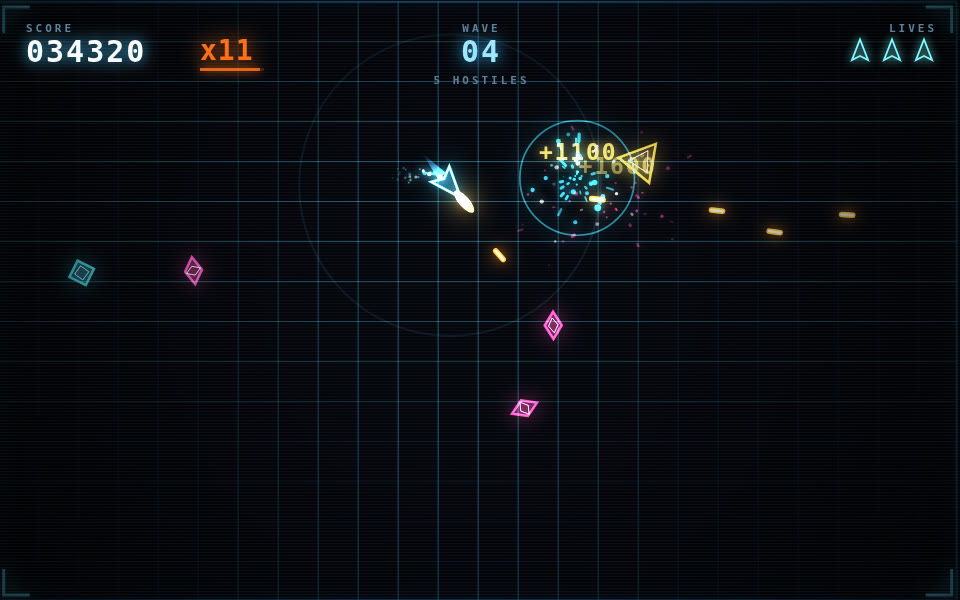
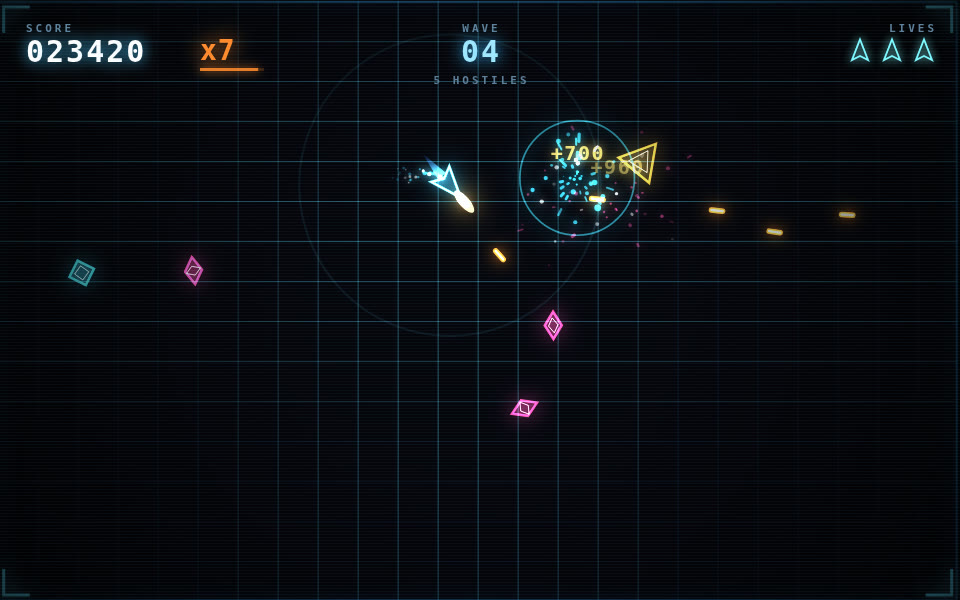
VOLT: author main.ts with validation+summary, tune gameplay, refresh screenshots

Changed region(s): [[0.5625, 0.24, 0.6875, 0.3], [0.0312, 0.06, 0.125, 0.12], [0.2188, 0.06, 0.2812, 0.12]]

diff --git a/main.ts b/main.ts
@@ -1,41 +1,127 @@
-// A working best-game-01 entry (Node 22, standard library only): the game is this directory's
-// game/ folder, plain static files a desktop browser loads offline (game/index.html and its ES
-// modules, no library and no network request), and the program hands it in. It copies game/ and
-// screenshots/ from beside this file to /output and writes /output/dossier.json, the summary the
-// judge reads, with the vendored make.fun library. A starting point, not a winner: Block Dodger, a
-// plain 2D canvas game where a paddle dodges falling blocks and catches coins, with a title screen,
-// score, lives and levels, game over and restart, flat colours and no sound. Build your own game
-// (any genre, any library you vendor under game/, or none), put your 3 or 4 PNG or JPEG screenshots
-// in screenshots/ (the first by name is the cover) and run it.
+// Hand-in program for VOLT, a neon arcade survival shooter that lives in game/ as plain static
+// files: game/index.html plus a handful of ES modules, no build step, no library, no network call.
 //
-// Serve it locally with `node serve.ts`, then open http://localhost:8080.
-// Outside the grader's container, MAKEFUN_OUTPUT_DIR stands in for /output:
-//   mkdir -p out && MAKEFUN_OUTPUT_DIR=out node main.ts
+// What this does, in order: check the entry is actually complete and within the scorer's limits,
+// copy game/ and screenshots/ into the output directory, write the dossier.json the judge reads,
+// and print one line saying what was handed in.
+//
+// The validation up front is the point. buildDossier will happily describe a broken entry -- an
+// entry with no index.html, or with five screenshots, or with one screenshot too large to accept --
+// and the failure then surfaces late, in the grader, as a low score rather than as an error here.
+// Checking first turns those into a loud message on this machine, while they are still fixable.
+//
+// In the grader's container the output directory is /output. Elsewhere, MAKEFUN_OUTPUT_DIR stands
+// in for it:
+//   rm -rf out && MAKEFUN_OUTPUT_DIR=out node main.ts
 
-import { cpSync, existsSync, mkdirSync, writeFileSync } from 'node:fs';
-import { join } from 'node:path';
+import { cpSync, existsSync, mkdirSync, readdirSync, statSync, writeFileSync } from 'node:fs';
+import { extname, join, posix, sep } from 'node:path';
 import { fileURLToPath } from 'node:url';
 import { buildDossier } from './vendor/makefun-game.ts';
 
 const here = fileURLToPath(new URL('.', import.meta.url));
 const out = process.env.MAKEFUN_OUTPUT_DIR ?? '/output';
+const gameDir = join(here, 'game');
+const shotsDir = join(here, 'screenshots');
+
+// The scorer's own caps, from reference/gate.json. Only text_max_bytes shapes the bytes that end up
+// in the dossier; the rest describe an entry the scorer would refuse outright (more than 4
+// screenshots or one over 256 KiB; more than 993 files in game/ or 48 MiB of game files in all; a
+// path under game/ longer than 1000 bytes -- game/ counts against /output's own 1000-entry cap,
+// alongside its screenshots/ and dossier.json).
+const CAPS = {
+  text_max_bytes: 163840,
+  screenshots: { max: 4, max_bytes: 262144 },
+  game_max_files: 993,
+  game_max_bytes: 50331648,
+  game_path_max_bytes: 1000,
+};
+
+// The judge reads the first screenshot by name as the cover, so there must be a few of them, and
+// they have to be formats a browser and the scorer both accept.
+const MIN_SCREENSHOTS = 3;
+const SCREENSHOT_EXTENSIONS = new Set(['.png', '.jpg', '.jpeg']);
+
+/** Abort with a message that says what is wrong and, where it helps, what to do about it. */
+function refuse(problem: string): never {
+  throw new Error(`VOLT is not ready to hand in: ${problem}`);
+}
+
+/** Every file at or below `dir`, as paths relative to it, using forward slashes like the dossier. */
+function walk(dir: string, prefix = ''): string[] {
+  const found: string[] = [];
+  for (const entry of readdirSync(dir, { withFileTypes: true }).sort((a, b) => a.name.localeCompare(b.name))) {
+    const rel = prefix ? posix.join(prefix, entry.name) : entry.name;
+    if (entry.isDirectory()) found.push(...walk(join(dir, entry.name), rel));
+    else if (entry.isFile()) found.push(rel);
+  }
+  return found;
+}
+
+const totalBytes = (dir: string, files: string[]): number =>
+  files.reduce((sum, rel) => sum + statSync(join(dir, ...rel.split('/'))).size, 0);
+
+const kib = (bytes: number): string => `${(bytes / 1024).toFixed(1)} KiB`;
+
+// ---------------------------------------------------------------- preflight
+
+if (!existsSync(gameDir) || !statSync(gameDir).isDirectory()) refuse('there is no game/ directory beside main.ts');
+
+// index.html is the entry point the judge opens; without it nothing else matters.
+const indexHtml = join(gameDir, 'index.html');
+if (!existsSync(indexHtml) || !statSync(indexHtml).isFile()) {
+  refuse('game/index.html is missing -- that file is the entry point the judge opens');
+}
+if (statSync(indexHtml).size === 0) refuse('game/index.html is empty');
+
+const gameFiles = walk(gameDir);
+const gameBytes = totalBytes(gameDir, gameFiles);
+if (gameFiles.length > CAPS.game_max_files) {
+  refuse(`game/ holds ${gameFiles.length} files, over the ${CAPS.game_max_files} the scorer accepts`);
+}
+if (gameBytes > CAPS.game_max_bytes) {
+  refuse(`game/ is ${kib(gameBytes)}, over the ${kib(CAPS.game_max_bytes)} the scorer accepts`);
+}
+// Paths are measured in bytes, not characters, so a non-ASCII filename can be longer than it looks.
+for (const rel of gameFiles) {
+  const pathBytes = Buffer.byteLength(`game/${rel}`, 'utf8');
+  if (pathBytes > CAPS.game_path_max_bytes) refuse(`the path game/${rel} is ${pathBytes} bytes, over the ${CAPS.game_path_max_bytes} byte limit`);
+}
+
+if (!existsSync(shotsDir) || !statSync(shotsDir).isDirectory()) {
+  refuse(`there is no screenshots/ directory -- ${MIN_SCREENSHOTS} PNG or JPEG captures of the game belong there`);
+}
+const screenshots = walk(shotsDir).filter((rel) => SCREENSHOT_EXTENSIONS.has(extname(rel).toLowerCase()));
+if (screenshots.length < MIN_SCREENSHOTS) {
+  refuse(`screenshots/ has ${screenshots.length} PNG or JPEG file(s); at least ${MIN_SCREENSHOTS} are needed (the first by name is the cover)`);
+}
+if (screenshots.length > CAPS.screenshots.max) {
+  refuse(`screenshots/ has ${screenshots.length} images, over the ${CAPS.screenshots.max} the scorer accepts`);
+}
+for (const rel of screenshots) {
+  const size = statSync(join(shotsDir, ...rel.split('/'))).size;
+  if (size > CAPS.screenshots.max_bytes) {
+    refuse(`screenshots/${rel} is ${kib(size)}, over the ${kib(CAPS.screenshots.max_bytes)} per-image limit`);
+  }
+}
+const screenshotBytes = totalBytes(shotsDir, screenshots);
+
+// -------------------------------------------------------------------- build
 
 mkdirSync(out, { recursive: true });
-cpSync(join(here, 'game'), join(out, 'game'), { recursive: true });
+cpSync(gameDir, join(out, 'game'), { recursive: true });
+// Keep screenshots/ present even in the odd case where the copy below brings nothing new, so the
+// output layout is the same shape every run.
 mkdirSync(join(out, 'screenshots'), { recursive: true });
-if (existsSync(join(here, 'screenshots'))) cpSync(join(here, 'screenshots'), join(out, 'screenshots'), { recursive: true });
+cpSync(shotsDir, join(out, 'screenshots'), { recursive: true });
 
-// The scorer's own caps (reference/gate.json): only text_max_bytes shapes the bytes; the others refuse an entry the
-// scorer would refuse (more than 4 screenshots or one over 256 KiB; more than 993 files in game/ or 48 MiB of game
-// files, in all, or a path under game/ over 1000 bytes: game/ counts beside /output's own 1000-entry cap, its
-// screenshots/ and dossier.json).
-writeFileSync(
-  join(out, 'dossier.json'),
-  buildDossier(out, {
-    text_max_bytes: 163840,
-    screenshots: { max: 4, max_bytes: 262144 },
-    game_max_files: 993,
-    game_max_bytes: 50331648,
-    game_path_max_bytes: 1000,
-  }),
+const dossier = buildDossier(out, CAPS);
+const dossierPath = join(out, 'dossier.json');
+writeFileSync(dossierPath, dossier);
+
+// One line, so a run that went fine is readable at a glance and the numbers are checkable.
+console.log(
+  `VOLT -> ${out}${sep}: ${gameFiles.length} game files (${kib(gameBytes)}), ` +
+    `${screenshots.length} screenshots (${kib(screenshotBytes)}), cover ${screenshots[0]}, ` +
+    `dossier.json ${kib(Buffer.byteLength(dossier, 'utf8'))}`,
 );

diff --git a/game/src/entities.js b/game/src/entities.js
@@ -57,6 +57,7 @@ export class World {
     this.comboHits = 0;
     this.combo = 1;
     this.comboTimer = 0;
+    this.comboMax = comboWindow(1);
     this.comboPop = 0;
 
     this.time = 0;
@@ -362,7 +363,6 @@ export class World {
     this.score += points;
 
     this.comboHits++;
-    this.comboTimer = 2.2;
     const next = comboFromHits(this.comboHits);
     if (next > this.combo) {
       this.combo = next;
@@ -371,6 +371,10 @@ export class World {
     } else {
       this.combo = next;
     }
+    // The window is recomputed from the multiplier you now hold, so stepping up immediately
+    // shortens the leash you are on.
+    this.comboMax = comboWindow(this.combo);
+    this.comboTimer = this.comboMax;
 
     this.explosion(e.x, e.y, e.type.color, e.radius);
     this.rings.push({
@@ -394,6 +398,7 @@ export class World {
     this.combo = 1;
     this.comboHits = 0;
     this.comboTimer = 0;
+    this.comboMax = comboWindow(1);
     this.shake = 26;
     this.flash = 1;
 
@@ -483,6 +488,7 @@ export class World {
       this.comboHits--;
     }
     this.combo = comboFromHits(this.comboHits);
+    this.comboMax = comboWindow(this.combo);
   }
 
   updateEffects(dt) {
@@ -519,7 +525,16 @@ export class World {
   }
 }
 
-/** Three quick kills per multiplier step, capped so the HUD stays readable. */
+/** Four quick kills per multiplier step, capped so the HUD stays readable. */
 export function comboFromHits(hits) {
-  return Math.min(1 + Math.floor(hits / 3), 12);
+  return Math.min(1 + Math.floor(hits / 4), 10);
+}
+
+/**
+ * How long the chain survives between kills. This tightens as the multiplier climbs -- a relaxed
+ * 2.4s at x1 down to 1.1s at x10 -- so the top of the range is a tightrope rather than a plateau
+ * you reach once and then sit on. Climbing is forgiving; staying up means never stopping to think.
+ */
+export function comboWindow(combo) {
+  return 2.4 - Math.min(combo - 1, 9) * 0.144;
 }

diff --git a/game/src/render.js b/game/src/render.js
@@ -506,7 +506,7 @@ function drawHud(ctx, world) {
     const color = `rgb(255, ${Math.round(220 - hot * 110)}, ${Math.round(110 - hot * 90)})`;
     const label = `x${world.combo}`;
     text(ctx, label, 200, 60, { size: 28 * pop, color, glow: 20, glowColor: color, track: 1 });
-    const bar = Math.max(0, Math.min(1, world.comboTimer / 2.2));
+    const bar = Math.max(0, Math.min(1, world.comboTimer / world.comboMax));
     ctx.globalAlpha = 0.85;
     ctx.fillStyle = color;
     ctx.shadowColor = color;

diff --git a/game/src/main.js b/game/src/main.js
@@ -332,8 +332,6 @@ function runShot(mode) {
   drawFrame();
 }
 
-if (typeof globalThis !== 'undefined') globalThis.__voltProbe = () => ({ state, score: world.score, wave: world.wave, combo: world.combo, enemies: world.enemies.length, particles: world.particles.length, bullets: world.bullets.length, lives: world.lives, rating: framingScore() });
-
 // ------------------------------------------------------------------- start
 
 resize();
